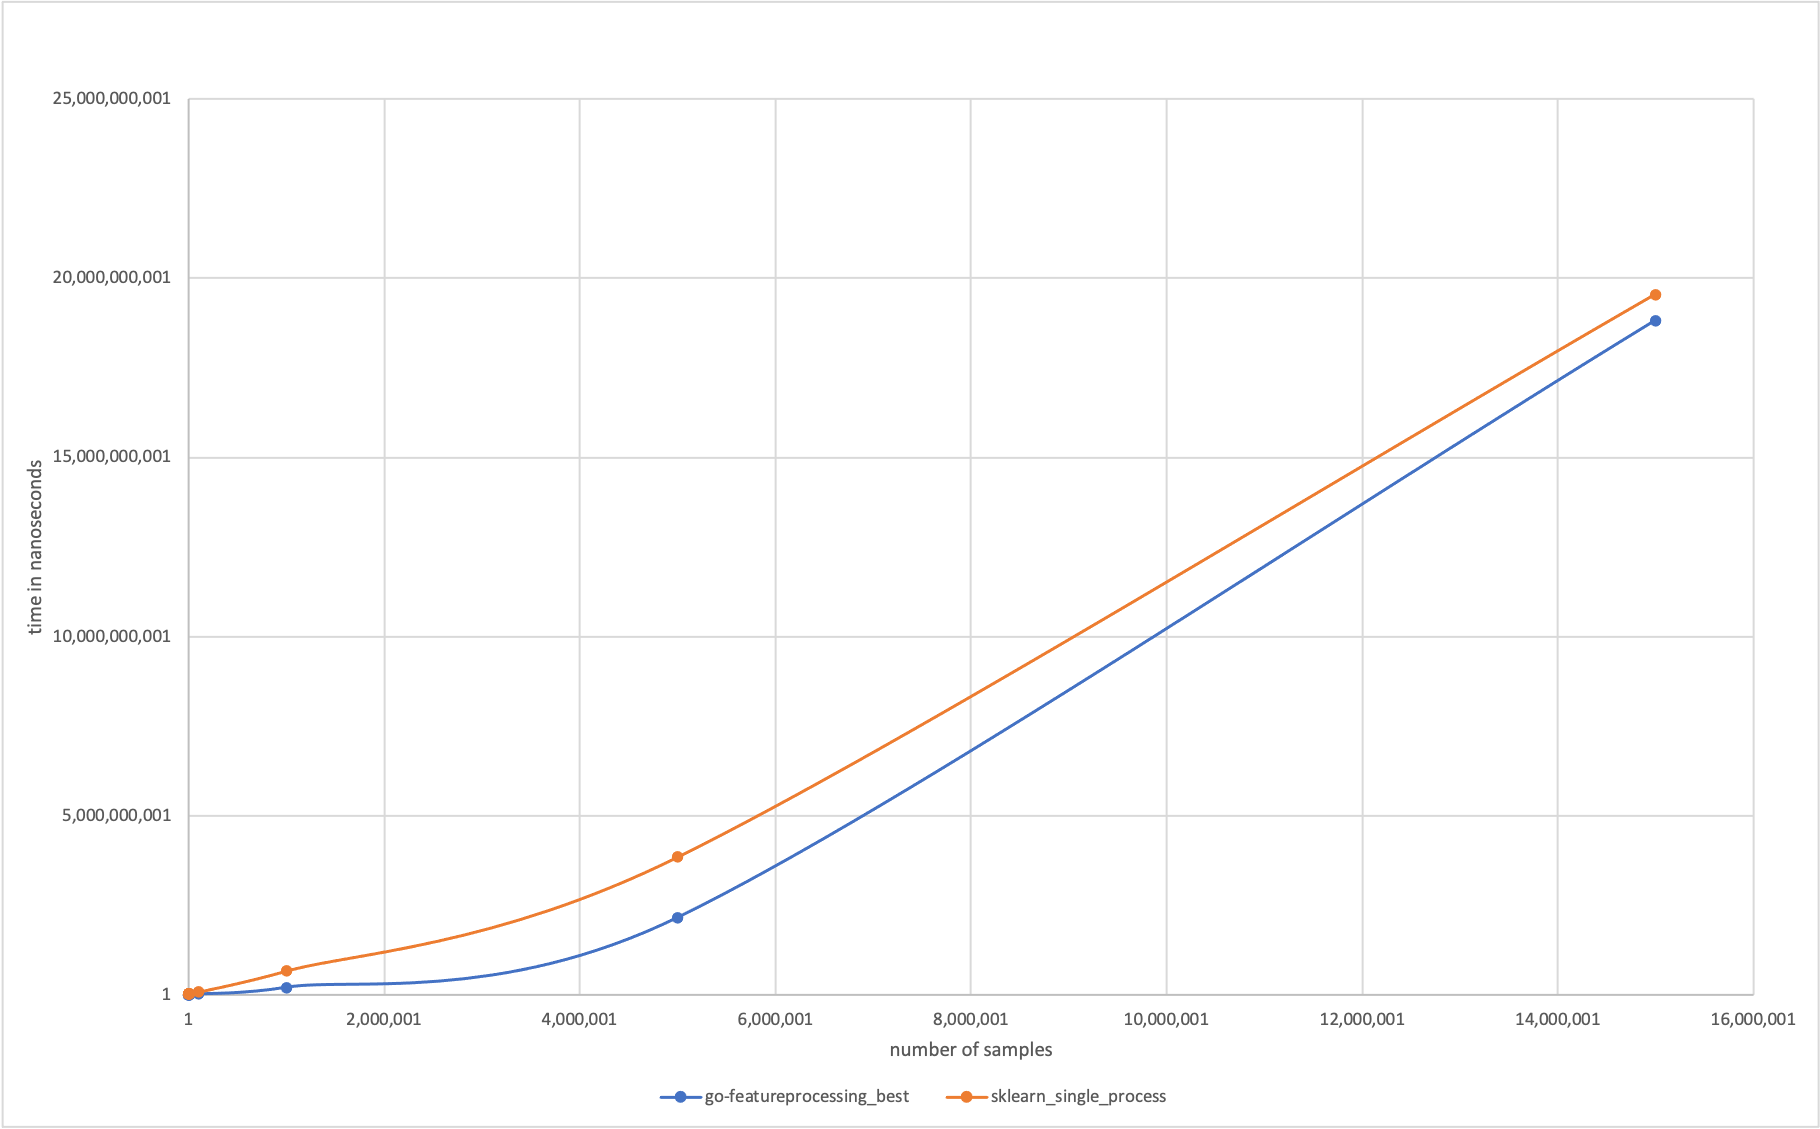
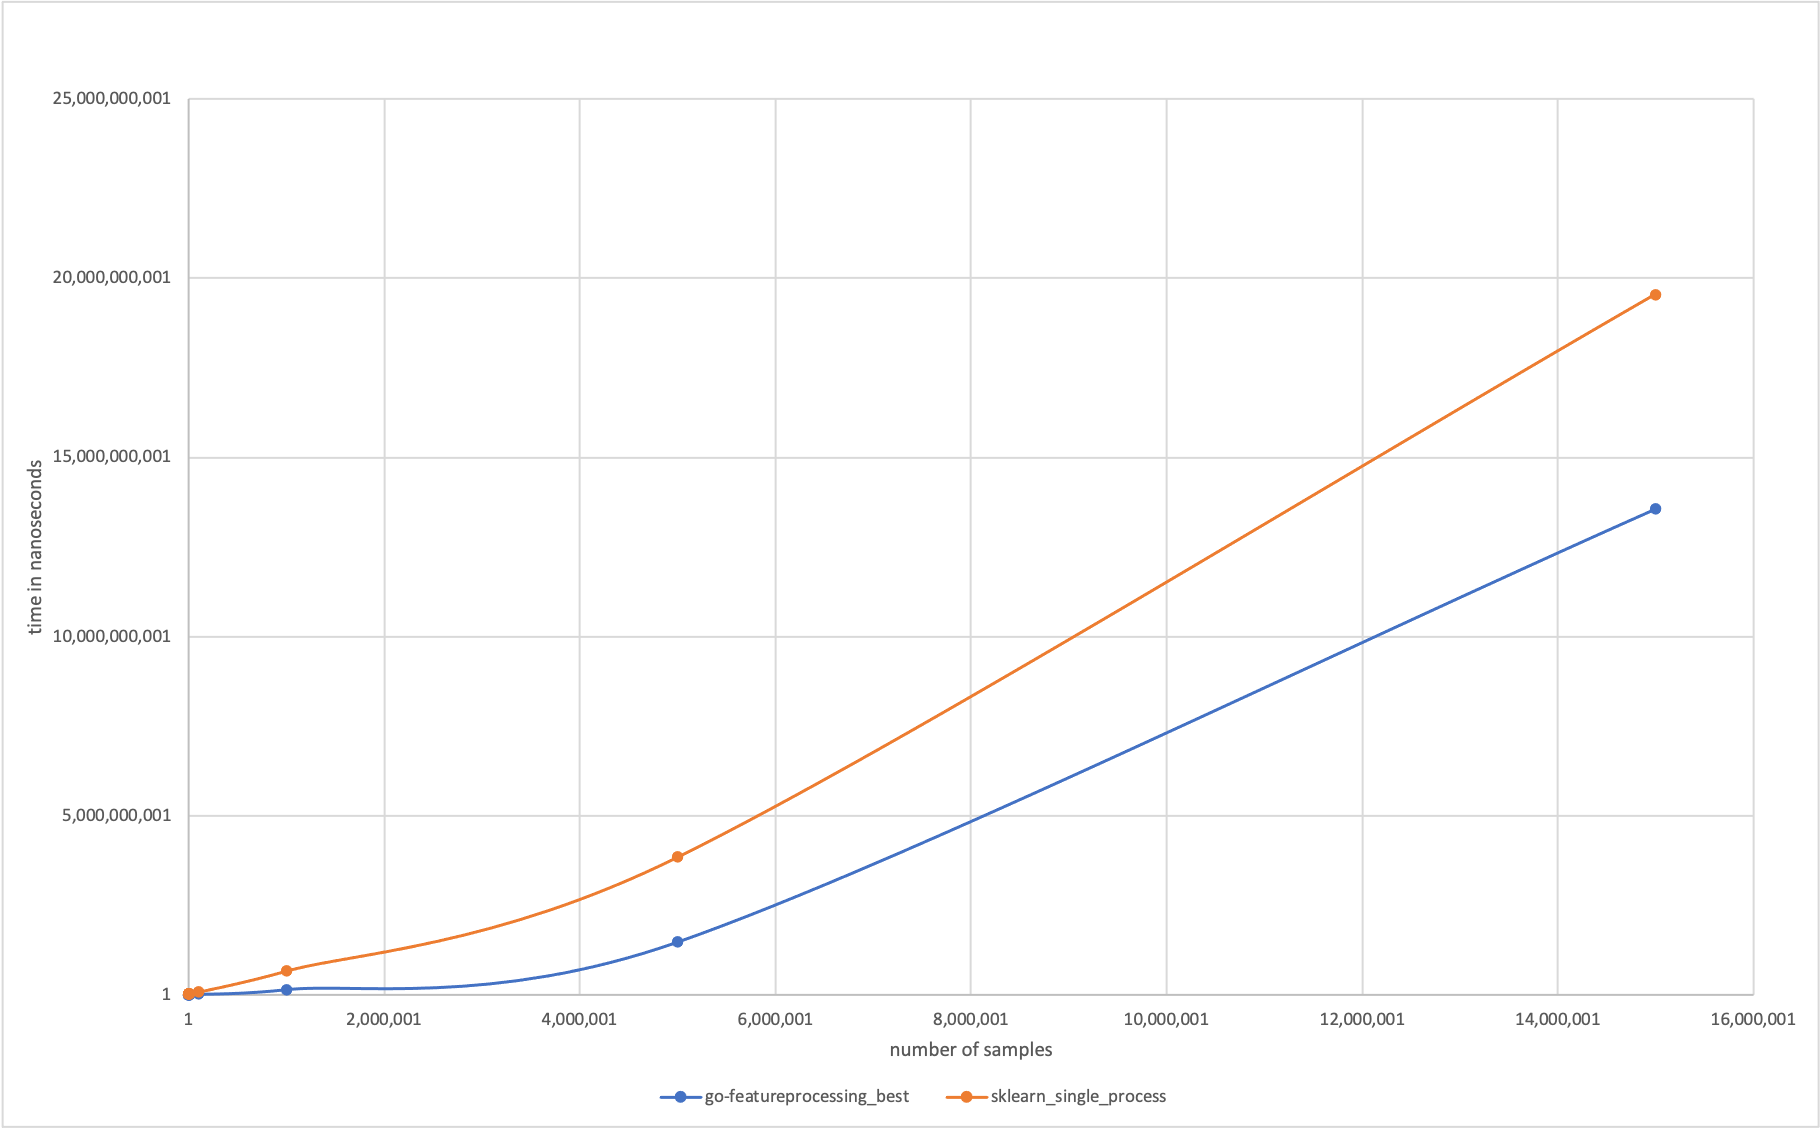
benchmarks

diff --git a/transformers/textprocessors_test.go b/transformers/textprocessors_test.go
@@ -8,7 +8,7 @@ import (
 )
 
 func TestCountVectorizer(t *testing.T) {
-	samples := []struct {
+	samplesFit := []struct {
 		name   string
 		input  []string
 		output map[string]uint
@@ -21,7 +21,7 @@ func TestCountVectorizer(t *testing.T) {
 		{"empty", nil, nil},
 	}
 
-	for _, s := range samples {
+	for _, s := range samplesFit {
 		t.Run(s.name, func(t *testing.T) {
 			encoder := CountVectorizer{}
 			encoder.Fit(s.input)
@@ -48,6 +48,31 @@ func TestCountVectorizer(t *testing.T) {
 		encoder := CountVectorizer{Mapping: map[string]uint{"a": 1, "b": 0}}
 		assert.Equal(t, []string{"b", "a"}, encoder.FeatureNames())
 	})
+
+	samplesTransform := []struct {
+		name    string
+		sep     string
+		mapping map[string]uint
+		input   string
+		output  []float64
+	}{
+		{"empty string", "", map[string]uint{"a": 0, "b": 1, "c": 2}, "a b c", []float64{0, 0, 0}},
+		{"no separator", " ", map[string]uint{"a": 0, "b": 1, "c": 2}, "a", []float64{1, 0, 0}},
+		{"no separator repeating not counted", " ", map[string]uint{"a": 0, "b": 1, "c": 2}, "aaa", []float64{0, 0, 0}},
+		{"no separator utf-8", " ", map[string]uint{"안녕": 0, "b": 1, "c": 2}, "안녕", []float64{1, 0, 0}},
+		{"no separator utf-8 repeating not counted", " ", map[string]uint{"a": 0, "b": 1, "c": 2}, "안녕안녕안녕", []float64{0, 0, 0}},
+		{"basic", " ", map[string]uint{"a": 0, "b": 1, "c": 2}, "a b c", []float64{1, 1, 1}},
+		{"ending with separator", " ", map[string]uint{"a": 0, "b": 1, "c": 2}, "a b c ", []float64{1, 1, 1}},
+		{"separators continuosly", " ", map[string]uint{"a": 0, "b": 1, "c": 2}, " a b    c  ", []float64{1, 1, 1}},
+		{"counting", " ", map[string]uint{"a": 0, "b": 1, "c": 2}, "a a a b b c", []float64{3, 2, 1}},
+	}
+
+	for _, s := range samplesTransform {
+		t.Run("transform_inplace_"+s.name, func(t *testing.T) {
+			tr := CountVectorizer{Separator: s.sep, Mapping: s.mapping}
+			assert.Equal(t, s.output, tr.Transform(s.input))
+		})
+	}
 }
 
 func TestTFIDFVectorizerFit(t *testing.T) {

diff --git a/transformers/textprocesors.go b/transformers/textprocesors.go
@@ -6,6 +6,8 @@ import (
 )
 
 // CountVectorizer performs bag of words encoding of text.
+// Separator should not be a part of any word, responsibility to ensure this
+// is on caller.
 type CountVectorizer struct {
 	Mapping   map[string]uint
 	Separator string // default space
@@ -68,14 +70,41 @@ func (t *CountVectorizer) FeatureNames() []string {
 
 // TransformInplace counts how many time each word appeared in input, inplace version
 // It is responsibility of caller to zero-out destination.
+// Using zero memory allocation algorithm based on strings.Split.
+// Utilizing that string is slice of bytes.
+// Should work fin with UTF-8.
 func (t *CountVectorizer) TransformInplace(dest []float64, v string) {
-	if t == nil || len(t.Mapping) == 0 || len(dest) != t.NumFeatures() {
+	if t == nil || t.Separator == "" || len(t.Mapping) == 0 || len(dest) != t.NumFeatures() {
+		return
+	}
+	sep := t.Separator
+
+	n := strings.Count(v, sep)
+	if n == 0 {
+		// no separators, try to match whole string
+		if idx, ok := t.Mapping[v]; ok {
+			dest[idx] = 1
+		}
 		return
 	}
 
-	for _, w := range strings.Split(v, t.Separator) {
-		if i, ok := t.Mapping[w]; ok {
-			dest[i]++
+	j := 0 // looking for position of separator in v starting from here
+	for i := 0; i < n; i++ {
+		// we are guaranteed to find next separator, m >= 0
+		m := strings.Index(v[j:], sep)
+
+		// word between separators
+		if idx, ok := t.Mapping[v[j:j+m]]; ok {
+			dest[idx]++
+		}
+
+		// increment by current word length and separator length
+		j += m + len(sep)
+	}
+	if j != len(v) {
+		// if string did not end with separator, it ended with word
+		if idx, ok := t.Mapping[v[j:]]; ok {
+			dest[idx]++
 		}
 	}
 }

diff --git a/README.md b/README.md
@@ -12,10 +12,12 @@ Ultra-fast and simple feature processing in Go with feature parity of [sklearn](
 - ✅ Does not cross `cgo` boundary
 - ✅ No memory allocation
 - ✅ No reflection
-- ✅ Serialization
+- ✅ Convenient serialization
 - ✅ Generated code has 100% test coverage and benchmarks
 - ✅ Fitting
+- ✅ UTF-8
 - ✅ Parallel batch transform
+- ✅ Faster than sklearn in batch mode
 
 ```go
 //go:generate go run github.com/nikolaydubina/go-featureprocessing/cmd/generate -struct=Employee
@@ -137,8 +139,8 @@ For typical use, with this struct encoder you can get ~100ns processing time for
                20ns      - DDR4 CAS, first byte from memory latency
                20ns      - C++ raw hardcoded structs access
                80ns      - C++ FlatBuffers decode/traverse/dealloc
+ ---------->  130ns      - go-featureprocessing typical processing
               150ns      - PCIe bus latency
- ---------->  168ns      - go-featureprocessing typical processing
               171ns      - Go cgo call boundary, 2015
               200ns      - some High Frequency Trading FPGA claims
               800ns      - Go Protocol Buffers Marshal
@@ -178,25 +180,21 @@ For full benchmarks go to `/docs/benchmarks`, some extract for typical struct:
 goos: darwin
 goarch: amd64
 pkg: github.com/nikolaydubina/go-featureprocessing/cmd/generate/tests
-BenchmarkEmployeeFeatureTransformer_Fit_100elements-8                                          	   14884	    247732 ns/op	  123830 B/op	     337 allocs/op
-BenchmarkEmployeeFeatureTransformer_Fit_1000elements-8                                         	     205	  17349599 ns/op	 8657731 B/op	    3133 allocs/op
-BenchmarkEmployeeFeatureTransformer_Fit_10000elements-8                                        	       2	1711951138 ns/op       823097124 B/op	   30837 allocs/op
-BenchmarkEmployeeFeatureTransformer_Transform-8                                  	14886992	       231 ns/op	     224 B/op	       2 allocs/op
-BenchmarkEmployeeFeatureTransformer_Transform_Inplace-8                          	20895944	       168 ns/op	      16 B/op	       1 allocs/op
-BenchmarkEmployeeFeatureTransformer_TransformAll_10elems-8                       	 1438218	      2479 ns/op	    2464 B/op	      11 allocs/op
-BenchmarkEmployeeFeatureTransformer_TransformAll_100elems-8                      	  137925	     26119 ns/op	   23456 B/op	     101 allocs/op
-BenchmarkEmployeeFeatureTransformer_TransformAll_1000elems-8                     	   12853	    271672 ns/op	  229536 B/op	    1001 allocs/op
-BenchmarkEmployeeFeatureTransformer_TransformAll_10000elems-8                    	    1248	   2873639 ns/op	 2246193 B/op	   10001 allocs/op
-BenchmarkEmployeeFeatureTransformer_TransformAll_100000elems-8                   	      88	  41014943 ns/op	23255681 B/op	  100001 allocs/op
-BenchmarkEmployeeFeatureTransformer_TransformAll_1000000elems-8                  	       8	 393020026 ns/op	248539984 B/op	 1000001 allocs/op
-BenchmarkEmployeeFeatureTransformer_TransformAll_10elems_8workers-8              	  412047	      8361 ns/op	    2496 B/op	      12 allocs/op
-BenchmarkEmployeeFeatureTransformer_TransformAll_100elems_8workers-8             	  133123	     32507 ns/op	   23408 B/op	     102 allocs/op
-BenchmarkEmployeeFeatureTransformer_TransformAll_1000elems_8workers-8            	   15753	    265068 ns/op	  229408 B/op	    1002 allocs/op
-BenchmarkEmployeeFeatureTransformer_TransformAll_10000elems_8workers-8           	    2012	   2196934 ns/op	 2327619 B/op	   10002 allocs/op
-BenchmarkEmployeeFeatureTransformer_TransformAll_100000elems_8workers-8          	     196	  17910894 ns/op	23254434 B/op	  100002 allocs/op
-BenchmarkEmployeeFeatureTransformer_TransformAll_1000000elems_8workers-8         	      18	 204270350 ns/op	224543232 B/op	 1000002 allocs/op
-BenchmarkEmployeeFeatureTransformer_TransformAll_5000000elems_8workers-8         	       3	2153195134 ns/op	1082682928 B/op	 5000002 allocs/op
-BenchmarkEmployeeFeatureTransformer_TransformAll_15000000elems_8workers-8        	       1	18813370176 ns/op	3247996016 B/op	15000002 allocs/op
+BenchmarkAllTransformersFeatureTransformer_Transform-8                                         	11534653	       310 ns/op	     288 B/op	       1 allocs/op
+BenchmarkAllTransformersFeatureTransformer_Transform_Inplace-8                                 	20954436	       167 ns/op	       0 B/op	       0 allocs/op
+BenchmarkAllTransformersFeatureTransformer_TransformAll_10elems-8                              	 1504075	      2390 ns/op	    3072 B/op	       1 allocs/op
+BenchmarkAllTransformersFeatureTransformer_TransformAll_100elems-8                             	  137522	     26397 ns/op	   27264 B/op	       1 allocs/op
+BenchmarkAllTransformersFeatureTransformer_TransformAll_1000elems-8                            	   13261	    269251 ns/op	  303105 B/op	       1 allocs/op
+BenchmarkAllTransformersFeatureTransformer_TransformAll_10000elems-8                           	    1269	   2717324 ns/op	 2801668 B/op	       1 allocs/op
+BenchmarkAllTransformersFeatureTransformer_TransformAll_100000elems-8                          	     120	  32259475 ns/op	28803072 B/op	       1 allocs/op
+BenchmarkAllTransformersFeatureTransformer_TransformAll_1000000elems-8                         	      10	 329235362 ns/op	280002560 B/op	       1 allocs/op
+BenchmarkAllTransformersFeatureTransformer_TransformAll_10elems_8workers-8                     	  460125	      8256 ns/op	    3088 B/op	       2 allocs/op
+BenchmarkAllTransformersFeatureTransformer_TransformAll_100elems_8workers-8                    	  114345	     37036 ns/op	   32784 B/op	       2 allocs/op
+BenchmarkAllTransformersFeatureTransformer_TransformAll_1000elems_8workers-8                   	   12106	    273372 ns/op	  311313 B/op	       2 allocs/op
+BenchmarkAllTransformersFeatureTransformer_TransformAll_10000elems_8workers-8                  	    1696	   2582489 ns/op	 3047448 B/op	       2 allocs/op
+BenchmarkAllTransformersFeatureTransformer_TransformAll_100000elems_8workers-8                 	     211	  16258268 ns/op	28803092 B/op	       2 allocs/op
+BenchmarkAllTransformersFeatureTransformer_TransformAll_1000000elems_8workers-8                	      22	 148782487 ns/op	296001552 B/op	       2 allocs/op
+BenchmarkAllTransformersFeatureTransformer_TransformAll_5000000elems_8workers-8                	       2	2049761654 ns/op	1440006160 B/op	    2 allocs/op
 ```
 
 ### [beta] Reflection based version
